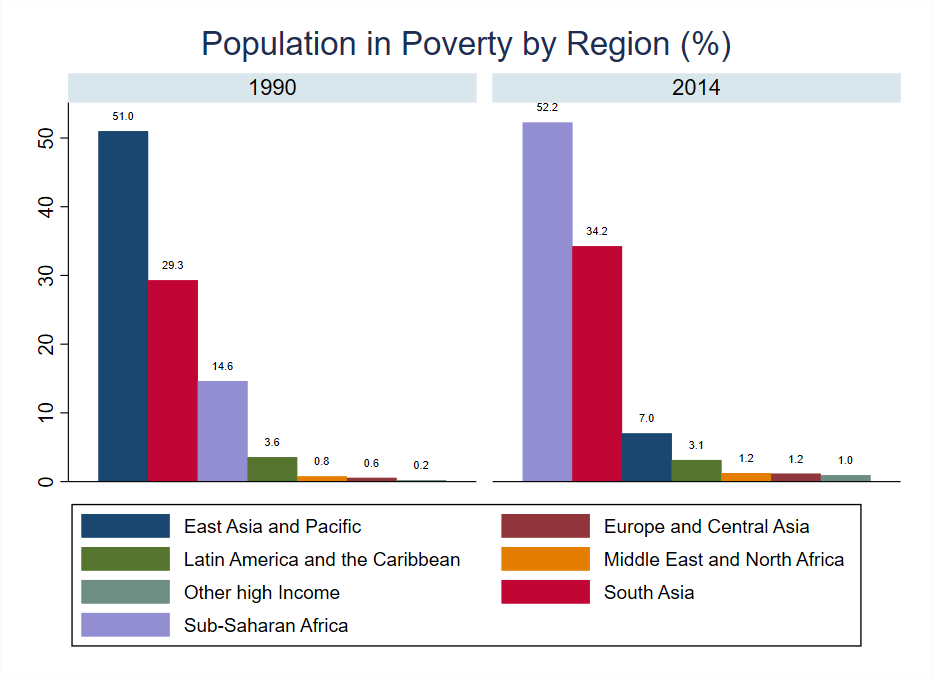
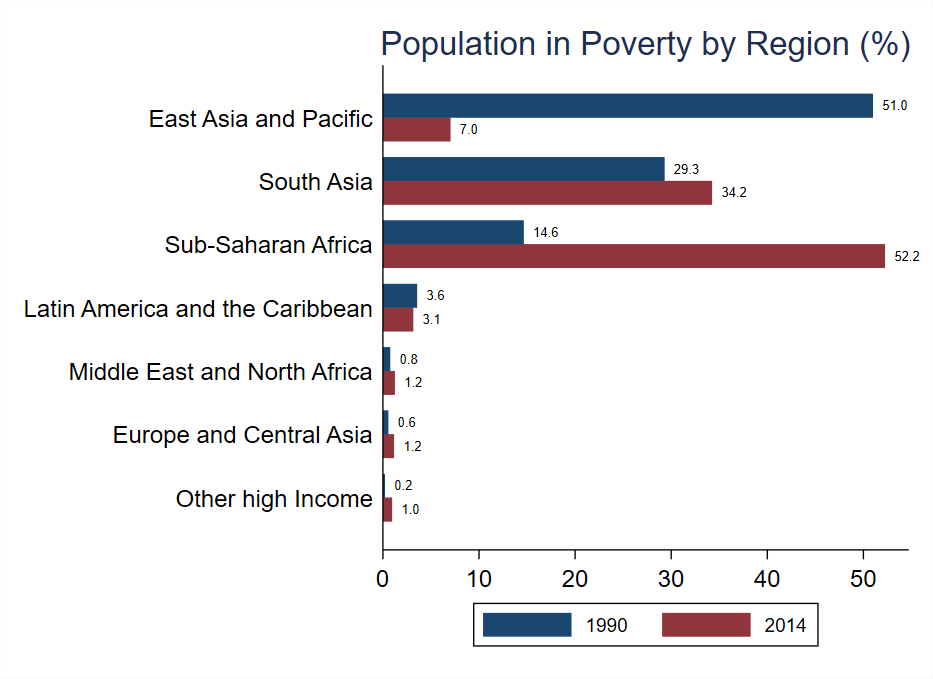
Population in poverty graph is updated

diff --git a/docs/vis.md b/docs/vis.md
@@ -259,12 +259,13 @@ egen tot2014 = sum(pop_in_poverty) if year == 2014
 gen pop = (pop_in_poverty /tot1990) * 100
 replace pop = (pop_in_poverty /tot2014) * 100 if pop ==.
 drop pop_in_poverty tot1990 tot2014
+reshape wide pop , i(region_name ) j( year)
 
-graph bar (asis) pop, over(region_name, sort(pop) descending) ///
-by(, title(Population in Poverty by Region (%))) by(year, graphregion(color(white)) note(""))  ///
+la var pop1990 "1990"
+la var pop2014 "2014"
+graph hbar (asis) pop1990 pop2014, over(region_name, sort(1) descending) ///
 blab(bar, pos(outside) format(%2.1f) size(5.5pt)) graphregion(color(white)) ///
-ylabel(, nogrid) asyvars legend(size(small)) 
-graph export popinpoverty.png, as(png) hei(1000) replace
+ylabel(, nogrid) legend(size(small)) title(Population in Poverty by Region (%))
 ```
 
 <center>
